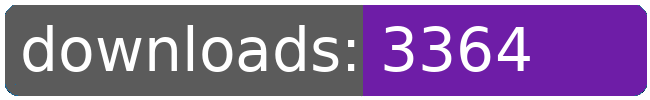
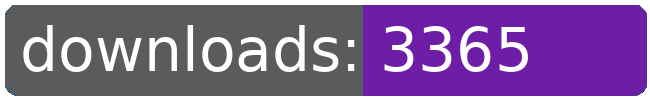
dl log written

Changed region(s): [[0.7692, 0.27, 0.8308, 0.72]]

diff --git a/README.md b/README.md
@@ -21,8 +21,8 @@
 		<td>3301</td>
 		<td>3325</td>
 		<td>3349</td>
-		<td>3364</td>
-		<td>+ 15</td>
+		<td>3365</td>
+		<td>+ 16</td>
 	</tr>
 	<tr>
 		<td>aberrant.kahet.outfitter</td>
@@ -274,8 +274,8 @@
 		<td></td>
 		<td></td>
 		<td></td>
-		<td>47714</td>
-		<td>266</td>
+		<td>47715</td>
+		<td>267</td>
 	</tr>
 </table>
 </sub></sup>
@@ -322,8 +322,8 @@
 		<td>3301</td>
 		<td>3325</td>
 		<td>3349</td>
-		<td>3364</td>
-		<td>+ 15</td>
+		<td>3365</td>
+		<td>+ 16</td>
 	</tr>
 	<tr>
 		<td>capture.archons</td>
@@ -553,8 +553,8 @@
 		<td></td>
 		<td></td>
 		<td></td>
-		<td>47714</td>
-		<td>266</td>
+		<td>47715</td>
+		<td>267</td>
 	</tr>
 </table>
 </sub></sup>
